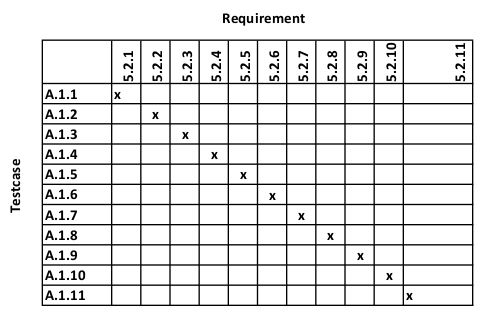
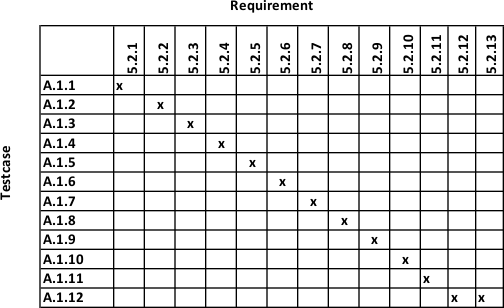
Reverted changes to setColor parameters

Changed region(s): [[0.0, 0.0, 1.0, 1.0]]

diff --git a/docs/STLDD/STLDD.tex b/docs/STLDD/STLDD.tex
@@ -30,7 +30,7 @@
 		~
 		\begin{minipage}{0.4\textwidth}
 			\begin{flushright}
-				PUSS154214
+				PUSS154214 v1.0
 				\today
 			\end{flushright}
 		\end{minipage}\\[3cm]
@@ -101,7 +101,8 @@
 		Class containing the LightBulb information.\\
         - String getName() returns the String Name of a Device.
 		\item{\textbf{DeviceActivity:}} 
-		Is an abstract class that holds the protected parameters deviceName, id and macAddress. It also contains a method toggle that toggles between the SensorDevice and LightBulbActivity.
+		Is an abstract class that holds the protected parameters deviceName, id and macAddress.\\
+		- void toggle(boolean) is a method that controls the on/off switch of the Devices set by the boolean value.
 		\item{\textbf{SensorDeviceActivity:}} 
 		Is the controller in the interaction with the user in the SensorDeviceAcitvity. Handles the TextView fields and the buttons that will retrieve and present the information regarding the sensors from NetworkManager.
 		\item{\textbf{LightBulbActivity:}} 
@@ -109,18 +110,19 @@
 		
 		\item{\textbf{NetworkManager:}} 
 		Handles all the communication with the API to access the backend. There are different methods for both receiving and setting data values.\\
-        - void toggle(Device, Callback<Response>)\\
-        - List<Device> detectDevices(List<Device>, Callback<DeviceResponse>) will return a List of Devices that will be displayed in the MyDeviceActivity using the adapter.\\
-        - Temperature getTemperature(Device, Callback<TemperatureResponse>)\\ returns the Temperature received from the API using a Callback. Device attribute to know to which host the connection should be made.\\
-        - Pressure getPressure(Device, Callback<PressureResponse>)\\ returns the Pressure received from the API using a Callback. Device attribute to know to which host the connection should be made.\\
-        - Humidity getHumidity(Device, Callback<HumidityResponse>)\\ 
+        - void toggle(Device, boolean, Callback<Response>) sets the on/off switch of the Device to the boolean value. Returns the response using a Callback.\\
+        - void getToggleState(Device, Callback<Response>) returns the state of the toggle received from the API using a Callback. Device attribute to know to which host the connection should be made and which device the toggle conserns.\\
+        - void detectDevices(List<Device>, Callback<DeviceResponse>) will return a List of Devices that will be displayed in the MyDeviceActivity using the adapter.\\
+        - void getTemperature(Device, Callback<TemperatureResponse>) returns the Temperature received from the API using a Callback. Device attribute to know to which host the connection should be made.\\
+        - void getPressure(Device, Callback<PressureResponse>) returns the Pressure received from the API using a Callback. Device attribute to know to which host the connection should be made.\\
+        - void getHumidity(Device, Callback<HumidityResponse>) 
         returns the Humidity received from the API using a Callback. Device attribute to know to which host the connection should be made.\\
-        - Magnetic getMagnetic(Device, Callback<MagneticResponse>)\\ returns the Magnetic received from the API using a Callback. Device attribute to know to which host the connection should be made.\\
-        - Gyroscopic getGyroscopic(Device, Callback<GyroscopicResponse>)\\ returns the Gyroscopic received from the API using a Callback. Device attribute to know to which host the connection should be made.\\
-        - Accelerometer getAccelerometer(Device, Callback<AccelerometerResponse>)\\ returns the Accelerometer received from the API using a Callback. Device attribute to know to which host the connection should be made.\\
-        - SensorValues getAllSensorValues(Device, Callback<AllSensorValuesResponse>)\\ returns all the sensor values that could be retrieved from the API using a Callback. Device attribute to know to which host the connection should be made.\\
-        - Color getColor(Device, Callback<GetColorResponse>)\\ returns the Color received from the API using a Callback. Device attribute to know to which host the connection should be made.\\
-        - void setColor(Device, Color color,  Callback<ColorResponse>) Sets the color of the light bulb. Device to receive the correct host, Color to set the color and a Callback that will return from the API network.
+        - void getMagnetic(Device, Callback<MagneticResponse>) returns the Magnetic received from the API using a Callback. Device attribute to know to which host the connection should be made.\\
+        - void getGyroscopic(Device, Callback<GyroscopicResponse>) returns the Gyroscopic received from the API using a Callback. Device attribute to know to which host the connection should be made.\\
+        - void getAccelerometer(Device, Callback<AccelerometerResponse>) returns the Accelerometer received from the API using a Callback. Device attribute to know to which host the connection should be made.\\
+        - void getAllSensorValues(Device, Callback<AllSensorValuesResponse>) returns all the sensor values that could be retrieved from the API using a Callback. Device attribute to know to which host the connection should be made.\\
+        - void getColor(Device, Callback<GetColorResponse>) returns the Color received from the API using a Callback. Device attribute to know to which host the connection should be made.\\
+        - void setColor(Device, Color color,  Callback<ColorResponse>) sets the color of the light bulb. Device to receive the correct host, Color to set the color and a Callback that will return from the API network.
 		\item{\textbf{SensorValues:}} 
 		A class the handles the information of the different sensors.\\
         - Temperature getTemperature() returns the class Temperature that has information regarding the temperature.\\

diff --git a/docs/SVVS/PUSS154213.tex b/docs/SVVS/PUSS154213.tex
@@ -38,7 +38,7 @@ Oskar Fällström %Not entirely sure who this should be, possibly project leader
 ~
 \begin{minipage}{0.4\textwidth}
 \begin{flushright}
-PUSS154213 v1.0 %Dokumentnummer enl. projekthandledning s. 22-23 och insidan av pärmen
+PUSS154213 v1.1 %Dokumentnummer enl. projekthandledning s. 22-23 och insidan av pärmen
 \today
 \end{flushright}
 \end{minipage}\\[3cm]
@@ -72,6 +72,7 @@ Jonathan Lundholm
     \hline
     \textbf{Version}	& \textbf{Date}		& \textbf{Responsible}		& \textbf{Description}					\\ \hline
     1.0					& 150915 			& OF						& Baseline								\\ \hline
+    1.1					&	150925			&	UH \& ME				&	Added test A.1.12 \\ \hline
     \end{tabular}
 \end{center}
 
@@ -84,7 +85,7 @@ Jonathan Lundholm
 %--------------------Reference Documents ---------------------------------------
 \section{Reference Documents}
 \begin{enumerate}
-\item PUSS154212 - System Requirements Specification for the current project \label{refdocs:srs}
+\item PUSS154212 v1.2 - System Requirements Specification for the current project \label{refdocs:srs}
 \item Programvaruutveckling för Stora System - Projekthandledning v2.2 (\textit{Institutionen för datavetenskap}, Lunds Univeritet 2015) \label{refdocs:projekthandledning}
 \item PUSS154253 - Test Matrices for SVVS. \label{refdocs:matrices}
 \end{enumerate}
@@ -216,7 +217,9 @@ This is appendix A where we list all function test specifications.
     \item When the back button is pressed the application is closed (Req. 5.2.10)
     
     % Nytt requirement!
-    \item The layout of the MyDevices View resemble figure 1 in appendix  Ref \ref{refdocs:srs} (5.2.11).
+    \item The layout of the MyDevices View resemble figure 1 in appendix  Ref \ref{refdocs:srs} (Req. 5.2.11).
+    
+    \item The "Get Devices" button only displays the devices with the MAC addresses in Ref \ref{refdocs:srs} (Req. 5.2.12, 5.2.13)
 \end{testlist}
 
 %--------------------------Sensor view tests --------------------------------------

diff --git a/docs/SVVS/PUSS154253.tex b/docs/SVVS/PUSS154253.tex
@@ -14,7 +14,7 @@
 \usepackage[titletoc]{appendix}
 
 \title{PUSS154253}
-\newcommand{\version}{v 1.0}
+\newcommand{\version}{v 1.1}
 
 \newcommand{\SVVS}{PUSS154213}
 
@@ -46,7 +46,7 @@ Oskar Fällström %Not entirely sure who this should be, possibly project leader
 \textsc{\LARGE Team 2}\\[0.5cm]
 
 \HRule \\[0.4cm]
-{ \huge \bfseries Test Matrices for \SVVS\ v1.0 }\\[0.4cm] % Title of your document
+{ \huge \bfseries Test Matrices for \SVVS\ v1.1 }\\[0.4cm] % Title of your document
 \HRule \\[1.5cm]
 
 \vfill
@@ -71,6 +71,7 @@ Jonathan Lundholm
     \hline
     \textbf{Version} 	& \textbf{Date} 	& \textbf{Responsible} 	& \textbf{Description} 		\\ \hline
     1.0				 	& 150915 			& UH 					&  Baseline. 				\\ \hline
+    1.1					& 150925			& UH \& ME			&  Added test A.1.12 \\ \hline
     \end{tabular}
 \end{center}
 
